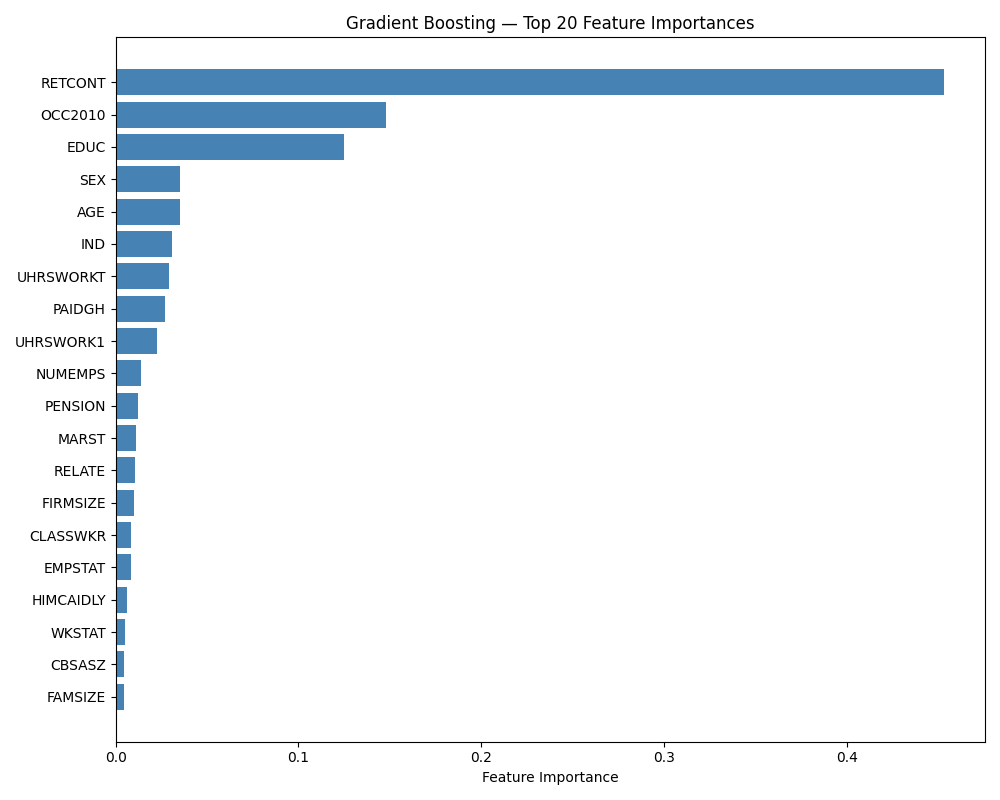
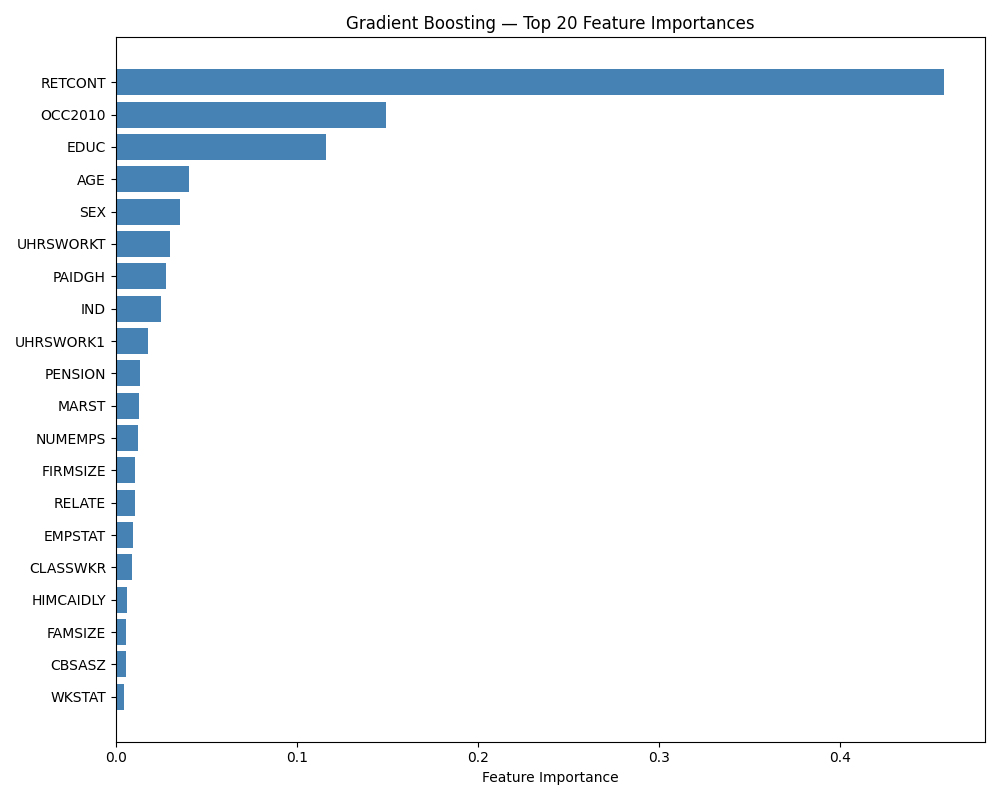
update gb and gb_top model with optuna, and result figures

diff --git a/src/models/model_gb_top20.py b/src/models/model_gb_top20.py
@@ -5,12 +5,12 @@ Train a Gradient Boosting model to predict individual income (Top 20 features on
 
 import pandas as pd
 import numpy as np
+import optuna
 from sklearn.ensemble import GradientBoostingRegressor
-from sklearn.model_selection import GridSearchCV
+from sklearn.model_selection import cross_val_score
 from sklearn.metrics import r2_score, mean_squared_error, mean_absolute_error
 import matplotlib.pyplot as plt
 from matplotlib.ticker import LogFormatterMathtext
-
 
 def load_data():
     """
@@ -46,43 +46,47 @@ def load_data():
     return X_train, X_test, y_train, y_test
 
 
-from sklearn.model_selection import GridSearchCV
-
-def train_gradient_boosting(X_train, y_train):
+def train_gradient_boosting(X_train, y_train, n_trials=20):
     """
-    Train Gradient Boosting with hyperparameter tuning using GridSearchCV.
+    Train Gradient Boosting with hyperparameter tuning using Optuna.
     Returns:
-        Best estimator found by grid search
+    Best estimator and best parameters
     """
 
-    # Base model
-    gbr = GradientBoostingRegressor(random_state=42)
+    def objective(trial):
+        params = {
+            "n_estimators": trial.suggest_int("n_estimators", 100, 500),
+            "learning_rate": trial.suggest_float("learning_rate", 0.01, 0.05, log=True),
+            "max_depth": trial.suggest_int("max_depth", 2, 4),
+        }
 
-    # Hyperparameter search space
-    param_grid = {
-        'n_estimators': [100, 200, 300, 400, 500],
-        'learning_rate': [0.01, 0.03, 0.05, 0.1],
-        'max_depth': [2, 3, 4]
-    }
 
-    # Grid search
-    grid_search = GridSearchCV(
-        estimator=gbr,
-        param_grid=param_grid,
-        cv=3,
-        scoring='r2',
-        n_jobs=-1,
-        verbose=2
+        model = GradientBoostingRegressor(random_state=42, **params)
+
+        score = cross_val_score(
+            model, X_train, y_train,
+            cv=3,
+            scoring="r2",
+            n_jobs=-1
+        ).mean()
+
+        return score
+
+    sampler = optuna.samplers.TPESampler(seed=42)
+    study = optuna.create_study(direction="maximize", sampler=sampler)
+    study.optimize(objective, n_trials=n_trials)
+
+    print("\nBest parameters found:", study.best_params)
+    print("Best CV R²:", study.best_value)
+
+    # Train final model with best params
+    best_model = GradientBoostingRegressor(
+        random_state=42,
+        **study.best_params
     )
+    best_model.fit(X_train, y_train)
 
-    # Fit grid search
-    grid_search.fit(X_train, y_train)
-
-    print("\nBest parameters found:", grid_search.best_params_)
-    print("Best CV R²:", grid_search.best_score_)
-
-    # Return best model
-    return grid_search.best_estimator_, grid_search.best_params_
+    return best_model, study.best_params
 
 
 def evaluate(model, X_test, y_test):
@@ -164,30 +168,31 @@ def plot_gb_actual_vs_predicted(
     preds = model.predict(X_test)
 
     # Clip negatives (log scale cannot handle <= 0)
-    actual = np.clip(y_test, 1e-1, None)
-    predicted = np.clip(preds, 1e-1, None)
+    actual = np.clip(y_test, 1, None)
+    predicted = np.clip(preds, 1, None)
 
     fig, ax = plt.subplots(figsize=(8, 8))
 
     ax.scatter(actual, predicted, alpha=0.25, s=8, color="steelblue")
 
-    # Set log10 scale
     ax.set_xscale("log")
     ax.set_yscale("log")
 
-    # Perfect prediction line
-    min_val = min(actual.min(), predicted.min())
+    min_val = 1
     max_val = max(actual.max(), predicted.max())
+
+    ax.set_xlim(1, max_val)
+    ax.set_ylim(1, max_val)
+
     ax.plot([min_val, max_val], [min_val, max_val], "r--", label="Perfect fit")
 
-    # Log10 tick formatting
     ax.xaxis.set_major_formatter(LogFormatterMathtext(base=10))
     ax.yaxis.set_major_formatter(LogFormatterMathtext(base=10))
 
     ax.grid(True, which="major", linestyle="--", alpha=0.6)
 
-    ax.set_xlabel("Actual INCTOT ($k, log10 scale)")
-    ax.set_ylabel("Predicted INCTOT ($k, log10 scale)")
+    ax.set_xlabel("Actual INCTOT ($k, log scale)")
+    ax.set_ylabel("Predicted INCTOT ($k, log scale)")
 
     r2 = r2_score(y_test, preds)
     ax.set_title(f"Actual vs Predicted (R² = {r2:.3f})")
@@ -233,7 +238,7 @@ def main():
 
     X_train, X_test, y_train, y_test = load_data()
 
-    model, best_params = train_gradient_boosting(X_train, y_train)
+    model, best_params = train_gradient_boosting(X_train, y_train, n_trials=20)
 
     # Get evaluation results
     r2, mse, mae = evaluate(model, X_test, y_test)

diff --git a/src/models/model_gb.py b/src/models/model_gb.py
@@ -59,7 +59,8 @@ def train_gradient_boosting(X_train, y_train, n_trials=20):
 
         return score
 
-    study = optuna.create_study(direction="maximize")
+    sampler = optuna.samplers.TPESampler(seed=42)
+    study = optuna.create_study(direction="maximize", sampler=sampler)
     study.optimize(objective, n_trials=n_trials)
 
     print("\nBest parameters found:", study.best_params)
@@ -187,8 +188,11 @@ def plot_gb_actual_vs_predicted(
     ax.set_xscale("log")
     ax.set_yscale("log")
 
-    min_val = min(actual.min(), predicted.min())
+    min_val = 1
     max_val = max(actual.max(), predicted.max())
+
+    ax.set_xlim(1, max_val)
+    ax.set_ylim(1, max_val)
 
     ax.plot([min_val, max_val], [min_val, max_val], "r--", label="Perfect fit")
 

diff --git a/README.md b/README.md
@@ -240,11 +240,11 @@ We then applied `Optuna` to perform a more flexible, continuous search over the 
 
 |Parameter/Metric |Baseline GB|Grid GB  |Optuna GB|
 |-----------------|-----------|---------|---------|
-|n_estimators     |300        |200      |385      |
-|learning_rate    |0.05       |0.1      |0.0493   |
+|n_estimators     |300        |200      |475      |
+|learning_rate    |0.05       |0.1      |0.0382   |
 |max_depth        |3          |4        |4        |
-|Test MSE         |4.80B      |4.72B    |4.72B    |
-|Test MAE         |30,158     |29,766   |29,687   |
+|Test MSE         |4.80B      |4.72B    |4.73B    |
+|Test MAE         |30,158     |29,766   |29,747   |
 |Test R²          |0.3559     |0.3666   |0.3659   | 
 |Computation Time |—          |~10 min  |~14 min  |
 
@@ -252,55 +252,52 @@ Both tuned models (Grid GB and Optuna GB) achieve lower prediction error and hig
 
 When comparing Grid GB and Optuna GB, neither model clearly dominates the other. Their performance differences are small, and the results depend heavily on the chosen hyperparameter search space. Expanding or narrowing the search ranges would likely shift the optimal configuration and the resulting metrics. Ultimately, there is a trade‑off between achieving the best possible performance and minimizing computation time.
 
-*Top 5 Feature Importance within Gradient Boosting*
+**Top 5 Feature Importance within Gradient Boosting**
 
-- All Gradient Boosting models identify **RETCONT**, **OCC2010**, **EDUC**, and **SEX** as dominant predictors.
+All Gradient Boosting models identify **RETCONT**, **OCC2010**, **EDUC**, and **SEX** as dominant predictors.
 
-- The tuned models (Grid GB and Optuna GB) include **AGE** in the top 5 instead of **UHRSWORKT**. 
+The tuned models (Grid GB and Optuna GB) include **AGE** in the top 5 instead of **UHRSWORKT**. 
 
 **Comparison with Random Forest**
 
 | Metric | Random Forest  | **Gradient Boosting**  |Description  |
 |--------|----------------|------------------------|-------------|
-| MSE    | 4.98B          | 4.72B                  |lower error  |
-| MAE    | 31,322         | 29,687                 |lower error  |
-| R²     | 0.3313         | 0.3659                 |higher R²    |
+| MSE    | 4.98B          | 4.73B                  |lower error  |
+| MAE    | 31,322         | 29,747                 |lower error  |
+| R²     | 0.3313         | 0.3651                 |higher R²    |
 
 Gradient Boosting (Optuna) achieves lower MSE and MAE and a higher R² than Random Forest, indicating smaller prediction errors and stronger explanatory power.
 
 For simplicity and clarity, only the Optuna‑based training code and final results are included in the repository, while the baseline model and the GridSearchCV setup are documented here as part of the model development process.
 
-
 **Reduced Feature Analysis**
 
 To evaluate whether a smaller and more interpretable feature set can achieve comparable performance, we constructed a reduced Gradient Boosting model using the 20 features that consistently appeared among the top predictors across Elastic Net, Random Forest, and Gradient Boosting. These variables represent the most stable and influential determinants of income in our dataset and allow us to test the robustness of the Gradient Boosting results while simplifying the feature space.
 
-**Selected Top 20 Features:**
+*Selected Top 20 Features with brief description*
 
-RETCONT, OCC2010, EDUC, SEX, AGE, PAIDGH, FIRMSIZE, RELATE, CBSASZ, MARST, UHRSWORKT, UHRSWORK1, IND, FAMSIZE, PENSION, EMPSTAT, WKSTAT, HIMCAIDLY, NUMEMPS, CLASSWKR.
+`RETCONT` retirement contributions, `OCC2010` occupation code, `EDUC` education level, `SEX` sex, `AGE` age, `PAIDGH` employer-paid group health, `FIRMSIZE` firm size, `RELATE` relationship to household head, `CBSASZ` metro area size, `MARST` marital status, `UHRSWORKT` usual weekly hours, all jobs, `UHRSWORK1` usual weekly hours, main job, `IND` industry, `FAMSIZE` family size, `PENSION` pension coverage, `EMPSTAT` employment status, `WKSTAT` work status, `HIMCAIDLY` Medicaid coverage, `NUMEMPS` number of employers, 
+`CLASSWKR` class of worker.
 
 **Performance Comparison: Full vs. Reduced Gradient Boosting**
 
-| Metrics | Full GB       | **Reduced GB**   | Description                     | 
-|---------|---------------|------------------|---------------------------------|
-|         | (47 features) |**(20 features)** |                                 |
-| MSE     | 4,716,257,047 | 4,741,541,933    | slightly higher error           |
-| MAE     | 29,766        | 29,904           | slightly higher error           |
-| R²      | 0.3666        | 0.3632           | slightly lower explanatory power|
+| Metrics         | Full GB       | **Reduced GB**   | Description           | 
+|-----------------|---------------|------------------|-----------------------|
+|                 | (47 features) |**(20 features)** |                       |
+| MSE             | 4.73B         | 4,76B            | slightly higher error |
+| MAE             | 29,747        | 29,989           | slightly higher error |
+| R²              | 0.3651        | 0.3611           | slightly lower R²     |
+|Computation Time |~14 min        |~5 min            | much shorter          |
 
 Using only the top 20 consensus features, the reduced Gradient Boosting model performs very similarly to the full 47‑feature specification, though it exhibits slightly higher MSE and MAE and a small decrease in R². These modest differences indicate that while the reduced model sacrifices a small amount of predictive accuracy, a large share of the predictive signal is still concentrated in a relatively small subset of variables. This suggests that the selected features capture the core determinants of income while offering a more compact and interpretable feature space. This also serves as a simple robustness check, showing that the Gradient Boosting model remains stable even when the feature space is substantially reduced.
 
-To illustrate this further, the optimal hyperparameters for each specification are shown below:
+Considering that the reduced model preserves most of the predictive power while requiring only about one‑third of the computation time, this approach is appealing for applications where efficiency and interpretability matter.
 
 *Optimal Hyperparameters:*
-- Full GB: learning_rate = 0.1, max_depth = 4, n_estimators = 200 
-- Reduced GB: learning_rate = 0.1, max_depth = 3, n_estimators = 400
+- Full GB: learning_rate = 0.0382, max_depth = 4, n_estimators = 475
+- Reduced GB: learning_rate = 0.0431, max_depth = 4, n_estimators = 351
 
-Interestingly, the optimal hyperparameters also shift when the feature space is reduced, indicating that the model adapts its preferred complexity to the available predictors. This further reinforces the robustness of the Gradient Boosting approach, as performance remains stable despite changes in both dimensionality and tuning configuration.
-
-**Brief Description of Selected Features:**  
-RETCONT (retirement contributions), OCC2010 (occupation code), EDUC (education level), SEX (sex), AGE (age), PAIDGH (employer-paid group health), FIRMSIZE (firm size), RELATE (relationship to household head), CBSASZ (metro area size), MARST (marital status), UHRSWORKT (usual weekly hours, all jobs), UHRSWORK1 (usual weekly hours, main job), IND (industry), FAMSIZE (family size), PENSION (pension coverage), EMPSTAT (employment status), WKSTAT (work status), HIMCAIDLY (Medicaid coverage), NUMEMPS (number of employers), 
-CLASSWKR (class of worker).
+These results also show that the optimal hyperparameters shift when the feature space is reduced, indicating that the model adapts its preferred complexity to the available predictors.
 
 
 ## 4. Comparative Evaluation of Models
@@ -312,7 +309,7 @@ CLASSWKR (class of worker).
 | Linear Regression | 5,276,020,877 |34,199  |0.2914 |
 | Elastic Net       | 5,390,603,768 |33,895  |0.2760 |
 | Random Forest     | 3,245,000,000 |32,400  |0.3310 |     
-| Gradient Boosting | 4,716,257,047 |29,766  |0.3666 | 
+| Gradient Boosting | 4,727,377,165 |29,747  |0.3651 | 
 
 Across the four models, Linear Regression and Elastic Net perform the weakest, showing low R² values and failing to capture the nonlinear structure of income. Although Elastic Net is an extension of Linear Regression with regularization, both remain linear models and therefore struggle to model complex interactions and nonlinear patterns in the data. 
 
@@ -338,11 +335,11 @@ In contrast, Random Forest and Gradient Boosting—both nonlinear tree‑based m
 |                       | 3 | AGE       | 0.0695 | Respondent’s age |
 |                       | 4 | EDUC      | 0.0568 | Educational attainment |
 |                       | 5 | IND       | 0.0493 | Industry |
-| **Gradient Boosting** | 1 | RETCONT   | 0.4377 | Retirement-related income |
-|                       | 2 | OCC2010   | 0.1436 | Occupation (2010 classification) |
-|                       | 3 | EDUC      | 0.1162 | Educational attainment |
-|                       | 4 | SEX       | 0.0340 | Respondent’s sex |
-|                       | 5 | AGE       | 0.0332 | Respondent's age |
+| **Gradient Boosting** | 1 | RETCONT   | 0.4397 | Retirement-related income |
+|                       | 2 | OCC2010   | 0.1430 | Occupation (2010 classification) |
+|                       | 3 | EDUC      | 0.1119 | Educational attainment |
+|                       | 4 | SEX       | 0.0351 | Respondent’s sex |
+|                       | 5 | AGE       | 0.0347 | Respondent's age |
 
 
 #### Actual vs Predicted 
